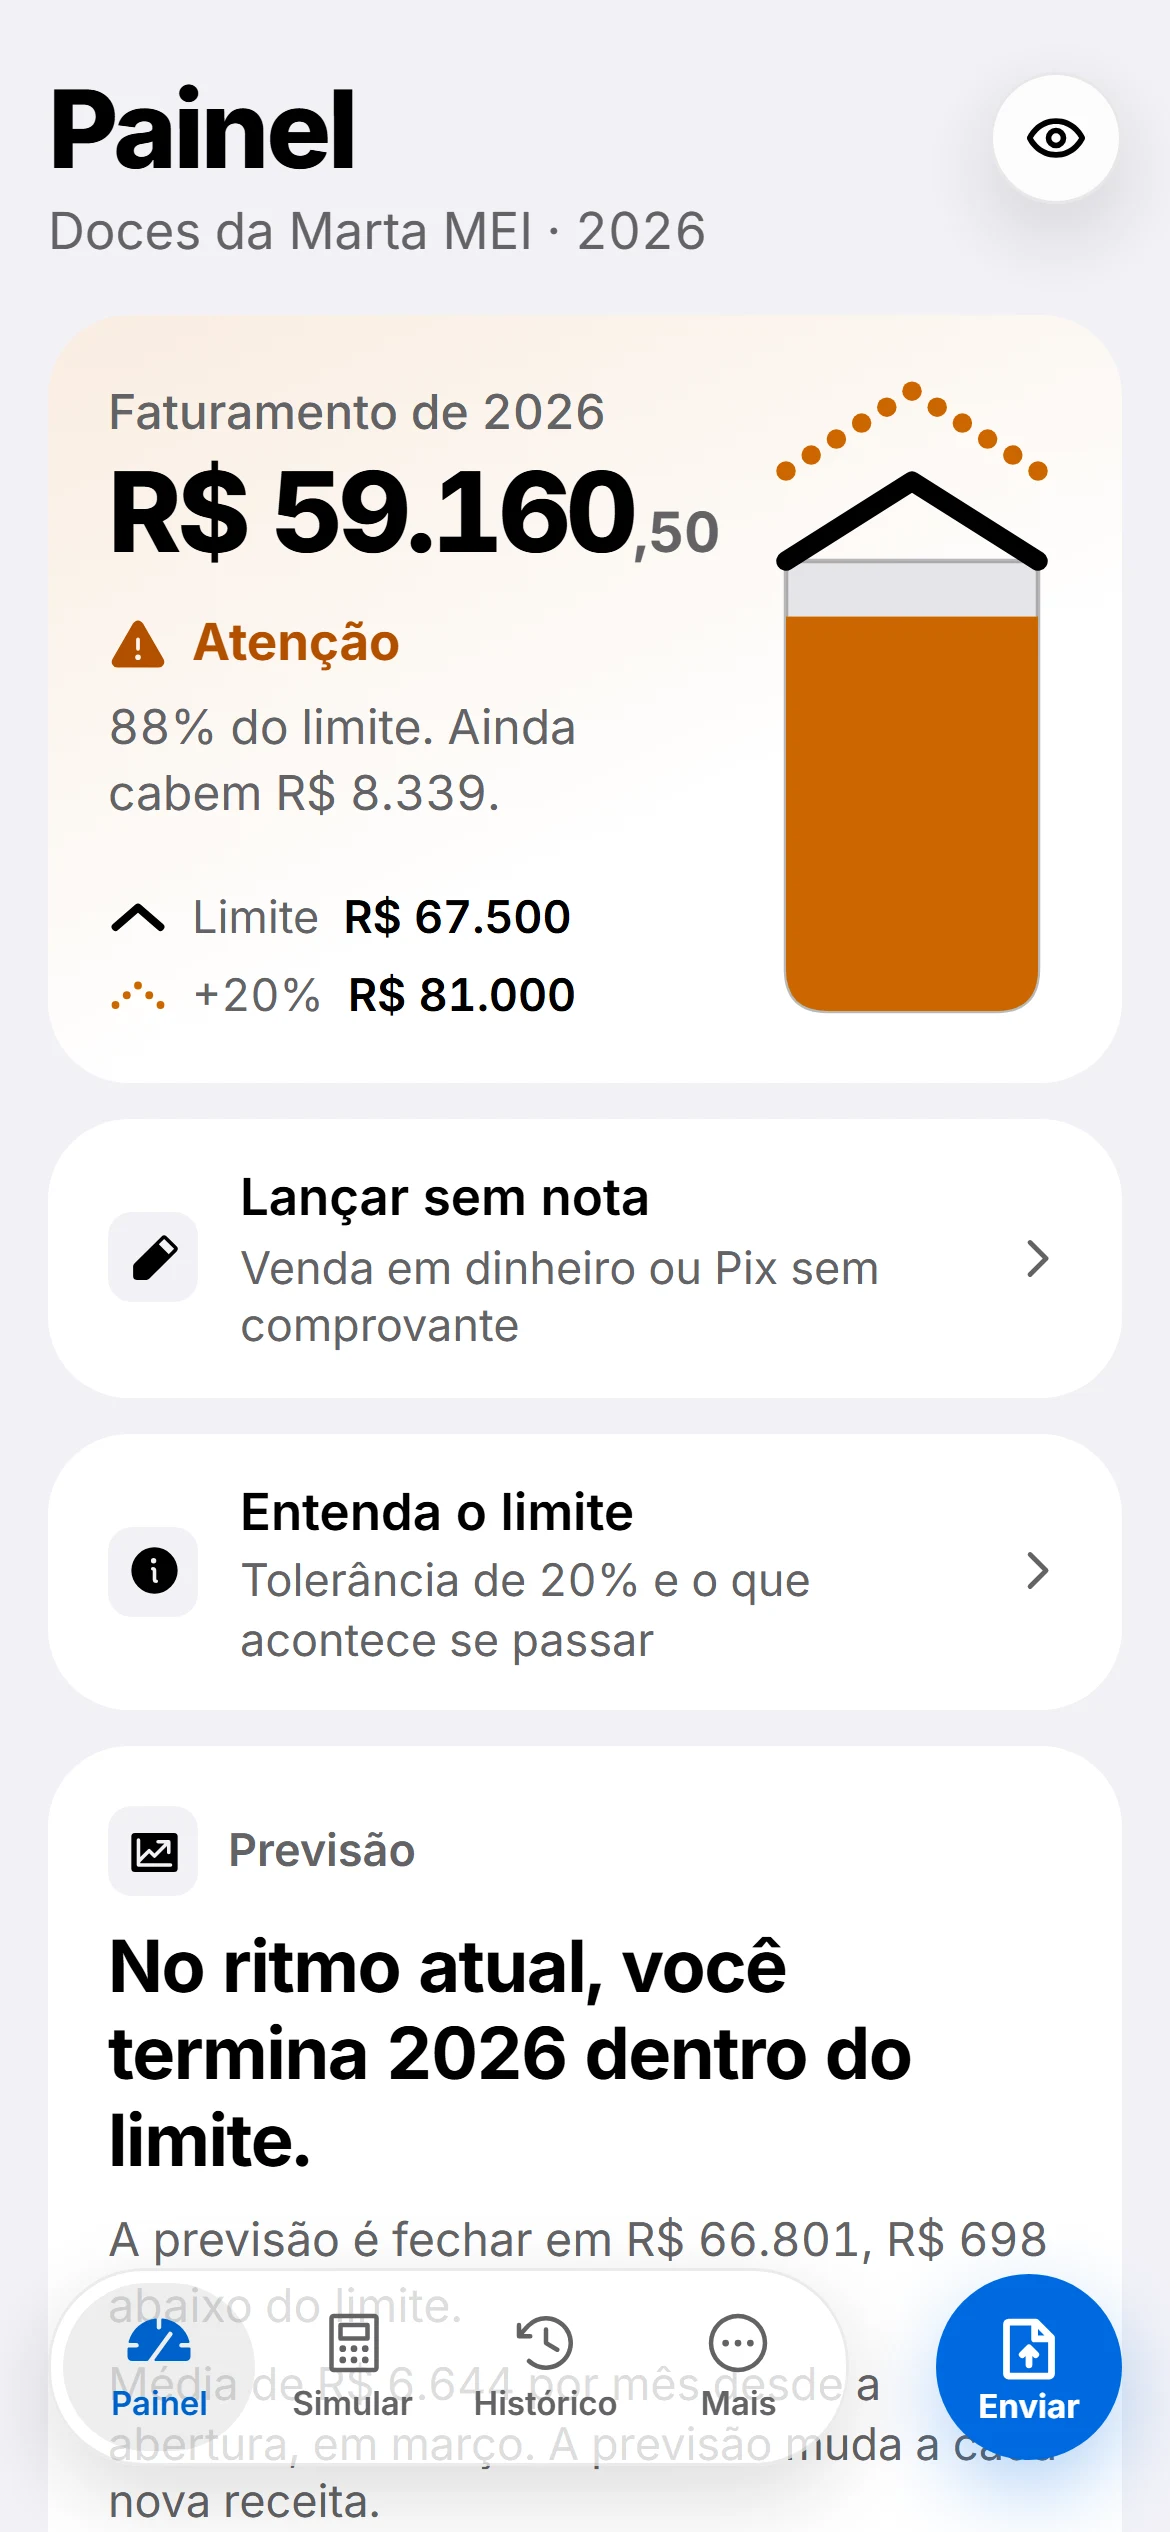
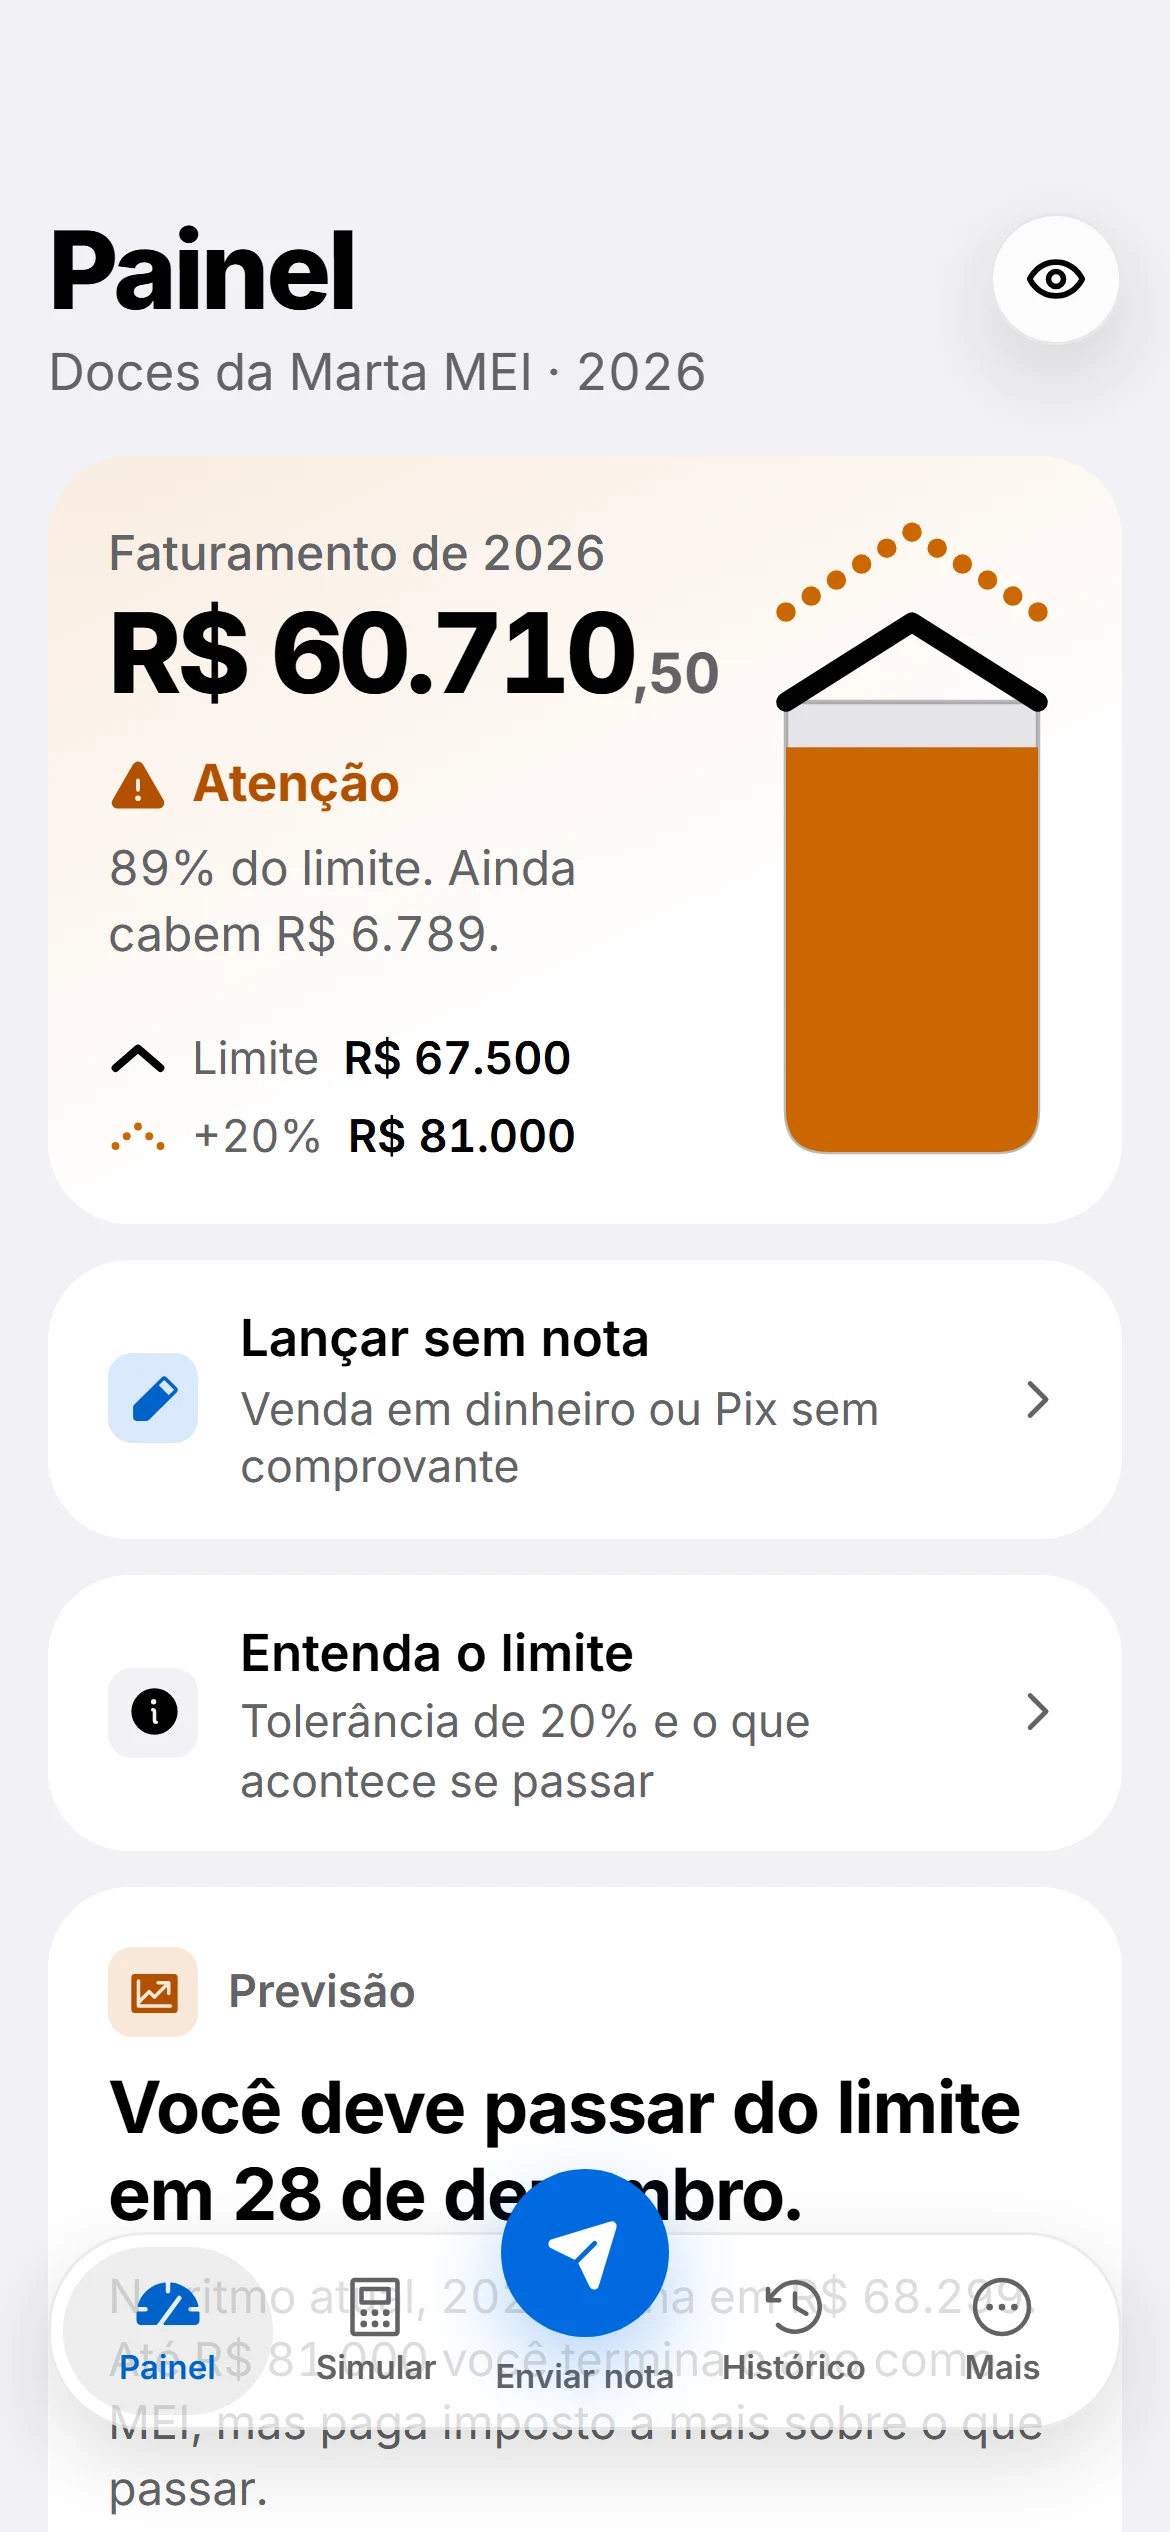
feat(site): celular com barra de status e telas atuais do app
As capturas pareciam um recorte ampliado, não um celular: a tela começava colada no topo e não tinha barra de status. Agora o script simula as áreas seguras do iPhone, e a moldura desenha hora, sinal, bateria e o traço de início. As telas foram recapturadas com a interface atual (Enviar nota no centro, atalho Lançar sem nota), e os textos alternativos seguem os números novos.

diff --git a/site/src/components/phone.tsx b/site/src/components/phone.tsx
@@ -1,6 +1,48 @@
 import Image, { type StaticImageData } from "next/image";
 
 /**
+ * As capturas são feitas com as áreas seguras de um iPhone de 390 x 844 pontos (scripts/capturar-telas.mjs):
+ * o app já deixa 47 pt livres no alto e 34 pt embaixo. Aqui a moldura ocupa essas folgas com a barra de status
+ * e o traço de início, como num celular de verdade. As medidas são em `cqw` (largura da tela), para a barra
+ * crescer e encolher junto com a captura.
+ */
+const STATUS = `${(47 / 390) * 100}cqw`;
+
+/** Hora, sinal, Wi-Fi e bateria, desenhados em SVG (sem marca de aparelho). */
+function StatusBar() {
+  return (
+    <div
+      aria-hidden="true"
+      style={{ height: STATUS }}
+      className="absolute inset-x-0 top-0 flex items-center justify-between px-[8.5cqw] pt-[1.6cqw] text-[4.1cqw] font-semibold tracking-[-0.01em]"
+    >
+      <span className="tabular">9:41</span>
+      <span className="flex items-center gap-[1.5cqw]">
+        {/* sinal */}
+        <svg viewBox="0 0 18 12" className="h-[3cqw] w-auto" fill="currentColor">
+          <rect x="0" y="8" width="3" height="4" rx="0.8" />
+          <rect x="5" y="5.5" width="3" height="6.5" rx="0.8" />
+          <rect x="10" y="3" width="3" height="9" rx="0.8" />
+          <rect x="15" y="0" width="3" height="12" rx="0.8" />
+        </svg>
+        {/* Wi-Fi */}
+        <svg viewBox="0 0 16 12" className="h-[3cqw] w-auto" fill="currentColor">
+          <path d="M8 2.4c2.3 0 4.4.9 6 2.4l1.3-1.4A10.6 10.6 0 0 0 8 .4 10.6 10.6 0 0 0 .7 3.4L2 4.8a8.6 8.6 0 0 1 6-2.4Z" />
+          <path d="M8 6c1.3 0 2.5.5 3.4 1.3l1.3-1.4A7 7 0 0 0 8 4a7 7 0 0 0-4.7 1.9l1.3 1.4C5.5 6.5 6.7 6 8 6Z" />
+          <path d="M8 9.4c.5 0 .9.2 1.2.5L8 11.6 6.8 9.9c.3-.3.7-.5 1.2-.5Z" />
+        </svg>
+        {/* bateria */}
+        <svg viewBox="0 0 27 13" className="h-[3.2cqw] w-auto">
+          <rect x="0.5" y="0.5" width="23" height="12" rx="3.5" fill="none" stroke="currentColor" strokeOpacity="0.4" />
+          <rect x="2" y="2" width="16" height="9" rx="2" fill="currentColor" />
+          <path d="M25 4.5v4c.8-.3 1.5-1.1 1.5-2s-.7-1.7-1.5-2Z" fill="currentColor" fillOpacity="0.4" />
+        </svg>
+      </span>
+    </div>
+  );
+}
+
+/**
  * Moldura de celular desenhada em CSS para as capturas reais do app.
  * Genérica de propósito (sem marca de aparelho): o produto é a tela, não o telefone.
  */
@@ -8,9 +50,10 @@ export function Phone({
   src,
   alt,
   preload = false,
-  sizes = "(min-width: 1024px) 340px, (min-width: 640px) 300px, 70vw",
+  sizes = "(min-width: 1024px) 340px, (min-width: 640px) 300px, 64vw",
   className = "",
   tone = "dark",
+  screen = "dark",
 }: {
   src: StaticImageData;
   alt: string;
@@ -19,19 +62,25 @@ export function Phone({
   className?: string;
   /** Cor do aro: escuro sobre palco claro também funciona; claro é para variar entre mockups. */
   tone?: "dark" | "light";
+  /** Tema da captura: decide a cor da barra de status e do traço de início. */
+  screen?: "dark" | "light";
 }) {
   const frame =
     tone === "dark"
       ? "bg-[linear-gradient(145deg,#3a3a3e,#151517_40%,#2a2a2d)] shadow-[inset_0_0_0_1.5px_rgb(255_255_255/0.14),0_0_0_1px_rgb(0_0_0/0.6)]"
       : "bg-[linear-gradient(145deg,#f4f4f6,#c9c9ce_45%,#ececef)] shadow-[inset_0_0_0_1.5px_rgb(255_255_255/0.7),0_0_0_1px_rgb(0_0_0/0.12)]";
+  const button = tone === "dark" ? "bg-[#2a2a2d]" : "bg-[#c9c9ce]";
+  const ink = screen === "dark" ? "text-white" : "text-black";
   return (
     <figure className={`relative ${className}`}>
       {/* botões laterais */}
-      <span aria-hidden="true" className={`absolute -left-[2px] top-[22%] h-[7%] w-[3px] rounded-l-sm ${tone === "dark" ? "bg-[#2a2a2d]" : "bg-[#c9c9ce]"}`} />
-      <span aria-hidden="true" className={`absolute -left-[2px] top-[31%] h-[7%] w-[3px] rounded-l-sm ${tone === "dark" ? "bg-[#2a2a2d]" : "bg-[#c9c9ce]"}`} />
-      <span aria-hidden="true" className={`absolute -right-[2px] top-[26%] h-[11%] w-[3px] rounded-r-sm ${tone === "dark" ? "bg-[#2a2a2d]" : "bg-[#c9c9ce]"}`} />
-      <div className={`rounded-[15%/7%] p-[3.2%] ${frame}`}>
-        <div className="relative overflow-hidden rounded-[12.5%/5.8%] bg-black">
+      <span aria-hidden="true" className={`absolute -left-[2px] top-[18%] h-[6%] w-[3px] rounded-l-sm ${button}`} />
+      <span aria-hidden="true" className={`absolute -left-[2px] top-[26%] h-[6%] w-[3px] rounded-l-sm ${button}`} />
+      <span aria-hidden="true" className={`absolute -right-[2px] top-[22%] h-[10%] w-[3px] rounded-r-sm ${button}`} />
+      {/* aro: um pouco mais grosso que a borda da tela, como num aparelho de verdade */}
+      <div className={`rounded-[16%/7.4%] p-[4.2%] ${frame}`}>
+        {/* a tela: 390 x 844, a proporção da captura */}
+        <div className={`@container relative overflow-hidden rounded-[12.5%/5.8%] bg-black ${ink}`}>
           <Image
             src={src}
             alt={alt}
@@ -41,8 +90,18 @@ export function Phone({
             placeholder="blur"
             className="block h-auto w-full"
           />
-          {/* câmera frontal: um ponto discreto, na folga do alto da tela (a captura não tem barra de status) */}
-          <span aria-hidden="true" className="absolute left-1/2 top-[1.1%] aspect-square w-[3.4%] -translate-x-1/2 rounded-full bg-black ring-1 ring-white/10" />
+          <StatusBar />
+          {/* câmera frontal: uma pílula discreta no meio da barra de status */}
+          <span
+            aria-hidden="true"
+            style={{ top: `${(11 / 390) * 100}cqw` }}
+            className="absolute left-1/2 h-[8.6cqw] w-[29cqw] -translate-x-1/2 rounded-full bg-black"
+          />
+          {/* traço de início */}
+          <span
+            aria-hidden="true"
+            className={`absolute bottom-[2.1cqw] left-1/2 h-[1.3cqw] w-[34cqw] -translate-x-1/2 rounded-full ${screen === "dark" ? "bg-white/90" : "bg-black/85"}`}
+          />
           {/* reflexo leve do vidro */}
           <span aria-hidden="true" className="pointer-events-none absolute inset-0 bg-[linear-gradient(115deg,rgb(255_255_255/0.07),transparent_38%)]" />
         </div>

diff --git a/site/src/components/features.tsx b/site/src/components/features.tsx
@@ -29,6 +29,8 @@ type Chapter = {
   body: string;
   note?: string;
   shot: StaticImageData;
+  /** Tema da captura, para a barra de status do celular. */
+  screen: "dark" | "light";
   alt: string;
 };
 
@@ -41,7 +43,8 @@ const CHAPTERS: Chapter[] = [
     body: "O faturamento do ano, a faixa de risco e quanto ainda cabe no limite. A sala enche conforme você fatura: o telhado é o limite, e o pontilhado, os 20% de tolerância.",
     note: "O risco nunca vem só em cor: sempre com ícone e texto.",
     shot: painel,
-    alt: "Painel em tema claro: faturamento de 2026 de R$ 59.160,50, selo Atenção, 88% do limite e ainda cabem R$ 8.339, com a sala do limite cheia em âmbar.",
+    screen: "light",
+    alt: "Painel em tema claro: faturamento de 2026 de R$ 60.710,50, selo Atenção, 89% do limite e ainda cabem R$ 6.789, com a sala do limite cheia em âmbar.",
   },
   {
     id: "enviar",
@@ -50,16 +53,18 @@ const CHAPTERS: Chapter[] = [
     body: "Foto, PDF ou comprovante de Pix. A IA só extrai os campos; nada entra no limite antes de você conferir. E quem decide se é receita ou despesa é o código, pelo CNPJ do seu MEI.",
     note: "Sem comprovante? Dá para lançar à mão uma venda em dinheiro ou Pix.",
     shot: enviar,
-    alt: "Tela Enviar nota: foto, PDF ou comprovante de Pix; a IA lê os dados e você confere antes de somar ao limite. Botões Tirar foto e Escolher arquivo.",
+    screen: "dark",
+    alt: "Tela Enviar nota: foto, PDF ou comprovante de Pix; a IA lê os dados e você confere antes de somar ao limite. Botões Tirar foto e Escolher arquivo, e o atalho Lançar sem nota.",
   },
   {
     id: "simular",
     kicker: "Simular",
     title: "E se eu aceitar essa venda?",
     body: "Digite o valor e a resposta aparece enquanto você digita: quanto ainda cabe, ou quanto a venda passa do limite, com a consequência em português e o custo extra estimado.",
-    note: "Na tela, uma venda de R$ 12.000 passaria do limite em R$ 3.660.",
+    note: "Na tela, uma venda de R$ 12.000 passaria do limite em R$ 5.210.",
     shot: simular,
-    alt: "Simulação de uma venda de R$ 12.000: acima do limite, 105%. A venda passa do limite em R$ 3.660; custo extra estimado de R$ 219, rotulado como estimativa.",
+    screen: "dark",
+    alt: "Simulação de uma venda de R$ 12.000: acima do limite, 107%. A venda passa do limite em R$ 5.210; até R$ 81.000, o ano termina como MEI, mas com imposto a mais sobre o que passou.",
   },
   {
     id: "previsao",
@@ -67,7 +72,8 @@ const CHAPTERS: Chapter[] = [
     title: "Saiba como o ano vai fechar.",
     body: "Pela média de receita desde a abertura, o Teto projeta onde o ano termina e se o limite será ultrapassado. A previsão muda a cada nova receita. E o DAS do mês aparece com a data e um atalho para gerar a guia.",
     shot: previsao,
-    alt: "Previsão: no ritmo atual, termina 2026 dentro do limite, fechando em R$ 66.801. DAS vence em 20 de dezembro, com o atalho Gerar guia. Gráfico de receita por mês.",
+    screen: "dark",
+    alt: "Previsão: você deve passar do limite em 28 de dezembro; no ritmo atual, 2026 fecha em R$ 68.299. DAS vence em 20 de dezembro, com o atalho Gerar guia. Notas em dia e gráfico de receita por mês.",
   },
 ];
 
@@ -98,8 +104,8 @@ function ChapterText({ chapter, index, onActive }: { chapter: Chapter; index: nu
         {chapter.note ? <p className="mt-5 max-w-[31rem] text-[0.9375rem] leading-relaxed text-graphite/80">{chapter.note}</p> : null}
       </Reveal>
       {/* no celular, cada capítulo traz a sua tela */}
-      <Reveal className="mx-auto mt-12 w-[min(72vw,19rem)] lg:hidden">
-        <Phone src={chapter.shot} alt={chapter.alt} className="drop-shadow-[0_40px_60px_rgb(0_0_0/0.22)]" />
+      <Reveal className="mx-auto mt-12 w-[min(64vw,18rem)] lg:hidden">
+        <Phone src={chapter.shot} screen={chapter.screen} alt={chapter.alt} className="drop-shadow-[0_40px_60px_rgb(0_0_0/0.22)]" />
       </Reveal>
     </div>
   );
@@ -150,7 +156,7 @@ export function Features() {
                     exit={{ opacity: 0, y: -20, scale: 0.98 }}
                     transition={{ duration: 0.6, ease: EASE }}
                   >
-                    <Phone src={chapter.shot} alt={chapter.alt} sizes="320px" className="drop-shadow-[0_50px_70px_rgb(0_0_0/0.25)]" />
+                    <Phone src={chapter.shot} screen={chapter.screen} alt={chapter.alt} sizes="320px" className="drop-shadow-[0_50px_70px_rgb(0_0_0/0.25)]" />
                   </motion.div>
                 </AnimatePresence>
                 {/* onde estamos: um ponto por capítulo */}

diff --git a/site/src/components/hero.tsx b/site/src/components/hero.tsx
@@ -83,7 +83,7 @@ export function Hero() {
         </motion.div>
       </motion.div>
 
-      <motion.div style={reduce ? undefined : { y: stageY }} className="relative mx-auto mt-16 w-[min(70vw,20.5rem)] sm:mt-20 lg:w-[21.5rem]">
+      <motion.div style={reduce ? undefined : { y: stageY }} className="relative mx-auto mt-16 w-[min(64vw,20.5rem)] sm:mt-20 lg:w-[21.5rem]">
         <Roof
           delay={0.65}
           lift={reduce ? undefined : dotsLift}
@@ -98,7 +98,7 @@ export function Hero() {
             src={painel}
             preload
             className="drop-shadow-[0_50px_80px_rgb(0_0_0/0.7)]"
-            alt="Painel do Teto: faturamento de 2026 de R$ 59.160,50, selo Atenção, 88% do limite e ainda cabem R$ 8.339. Limite de R$ 67.500; com os 20% de tolerância, R$ 81.000."
+            alt="Painel do Teto: faturamento de 2026 de R$ 60.710,50, selo Atenção, 89% do limite e ainda cabem R$ 6.789. Limite de R$ 67.500; com os 20% de tolerância, R$ 81.000."
           />
         </motion.div>
         <motion.p {...fadeUp(1.4)} className="mt-8 text-center text-xs text-mute-dark">

diff --git a/site/README.md b/site/README.md
@@ -61,8 +61,12 @@ npm run capturas -- http://localhost:3000
 ```
 
 O script abre o Edge ou o Chrome instalado, emula um iPhone (390 × 844 a 3x) e grava WebP em `src/assets/telas/`.
+Ele simula as áreas seguras do iPhone (47 pt no alto, 34 pt embaixo), e o app se afasta delas como num aparelho de
+verdade. A moldura (`src/components/phone.tsx`) desenha por cima a barra de status (hora, sinal, bateria) e o traço
+de início. Por isso cada `<Phone>` recebe `screen="dark"` ou `"light"`, o tema da captura.
 **Só dados fictícios**: aponte para o perfil de demonstração. A tela de avisos fica de fora de propósito, porque
-mostra parte do e-mail cadastrado. Confira cada captura antes de commitar.
+mostra parte do e-mail cadastrado. Confira cada captura antes de commitar. Os números da demonstração mudam com o
+tempo: ao recapturar, atualize os textos alternativos e as notas que citam valores (`hero.tsx`, `features.tsx`).
 
 ## Publicar na Vercel
 
